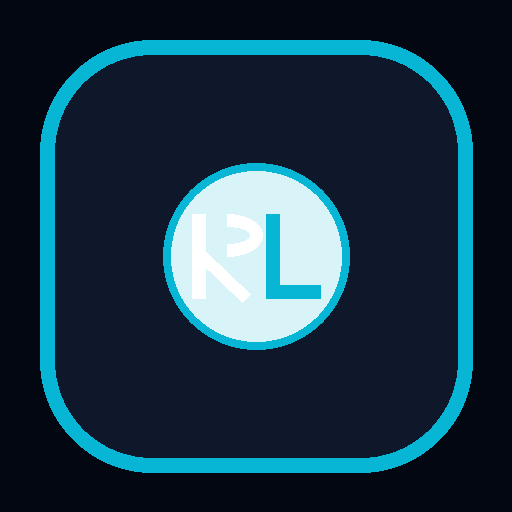
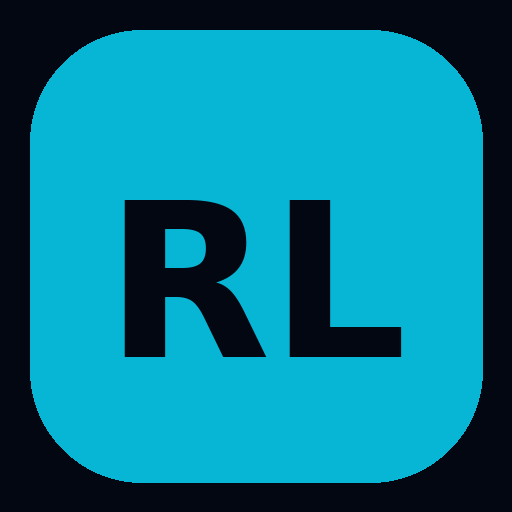
soliucion de instalacion RLPro v32.9

diff --git a/index.html b/index.html
@@ -8,6 +8,8 @@
     <meta name="theme-color" content="#030712">
     <meta name="apple-mobile-web-app-capable" content="yes">
     <meta name="apple-mobile-web-app-status-bar-style" content="black-translucent">
+    <link rel="apple-touch-icon" href="./icon-192.png">
+    <link rel="icon" type="image/png" href="./icon-192.png">
     <meta name="mobile-web-app-capable" content="yes">
     <link rel="manifest" href="./manifest.json">
 
@@ -106,7 +108,7 @@
     </div>
 
     <!-- TOP HEADER -->
-    <header class="bg-neutral-900/95 border-b border-neutral-800 px-3 py-2.5 flex items-center justify-between sticky top-0 z-40 shadow-xl shrink-0">
+    <header class="bg-neutral-900/95 border-b border-neutral-800 px-3 pt-[max(0.6rem,env(safe-area-inset-top))] pb-2.5 flex items-center justify-between sticky top-0 z-40 shadow-xl shrink-0">
         <div class="flex items-center space-x-2.5 cursor-pointer min-w-0 flex-1 pr-2" onclick="openDriverEditModal()" title="Editar Perfil">
             <div class="w-9 h-9 rounded-xl bg-gradient-to-tr from-cyan-500 to-blue-600 text-neutral-950 font-black flex items-center justify-center text-xs shadow-md border border-cyan-400/30 shrink-0">
                 <span id="driver-initials">CP</span>
@@ -142,7 +144,7 @@
     </header>
 
     <!-- MAIN APP VIEWCONTAINER -->
-    <main class="flex-1 overflow-y-auto w-full max-w-lg mx-auto pb-20 relative flex flex-col">
+    <main class="flex-1 overflow-y-auto w-full max-w-lg mx-auto pb-[calc(4.5rem+env(safe-area-inset-bottom))] relative flex flex-col">
 
         <!-- MAP VIEW -->
         <section id="view-map" class="flex-1 flex flex-col relative h-full w-full">
@@ -155,7 +157,7 @@
             </div>
 
             <!-- PANEL DE NAVEGACIÓN ESTILO WAZE / GOOGLE MAPS (FLOTANTE) -->
-            <div id="waze-nav-banner" class="absolute top-14 left-2.5 right-2.5 z-30 bg-neutral-900/95 border-2 border-cyan-500/70 rounded-2xl p-3 shadow-2xl backdrop-blur-md hidden flex items-center justify-between gap-2">
+            <div id="waze-nav-banner" class="absolute top-[3.6rem] left-2.5 right-2.5 z-30 bg-neutral-900/95 border-2 border-cyan-500/70 rounded-2xl p-2.5 shadow-2xl backdrop-blur-md hidden flex items-center justify-between gap-2">
                 <div class="flex items-center gap-3 min-w-0 flex-1">
                     <div class="w-10 h-10 rounded-xl bg-cyan-500 text-neutral-950 flex items-center justify-center font-black text-base shrink-0 shadow-lg">
                         <i data-lucide="navigation-2" class="w-6 h-6 animate-pulse"></i>
@@ -179,7 +181,7 @@
                 </div>
             </div>
 
-            <div class="absolute top-28 left-2.5 right-2.5 z-30 flex items-center justify-between gap-1 pointer-events-none" id="map-controls-subbar">
+            <div class="absolute top-[7.8rem] left-2.5 right-2.5 z-30 flex items-center justify-between gap-1.5 pointer-events-none transition-all duration-200" id="map-controls-subbar">
                 <div class="flex gap-1 bg-neutral-900/95 p-1 rounded-xl border border-neutral-700 text-[10px] shadow-2xl font-bold pointer-events-auto">
                     <button onclick="setMapTileStyle('standard')" id="style-standard" class="px-2 py-1 rounded-lg bg-cyan-500 text-neutral-950 transition">Clásico</button>
                     <button onclick="setMapTileStyle('dark')" id="style-dark" class="px-2 py-1 rounded-lg text-neutral-300 hover:text-white transition">Oscuro</button>
@@ -201,7 +203,7 @@
                 </div>
             </div>
 
-            <div class="absolute bottom-20 right-3 z-20 flex flex-col gap-2">
+            <div class="absolute bottom-[5.2rem] right-2.5 z-20 flex flex-col gap-2">
                 <button onclick="openOfflineDownloadModal()" class="w-11 h-11 bg-neutral-900/95 hover:bg-neutral-800 border border-emerald-500/40 rounded-2xl flex items-center justify-center text-emerald-400 shadow-2xl transition" title="Descargar Mapa Offline">
                     <i data-lucide="download-cloud" class="w-5 h-5"></i>
                 </button>
@@ -213,12 +215,12 @@
                 </button>
             </div>
 
-            <div id="gps-status-badge" class="absolute bottom-20 left-3 z-20 bg-neutral-900/90 border border-neutral-800 text-[10px] text-neutral-300 font-bold px-2.5 py-1.5 rounded-xl backdrop-blur-md shadow-xl flex items-center gap-1.5">
+            <div id="gps-status-badge" class="absolute bottom-[5.2rem] left-2.5 z-20 bg-neutral-900/90 border border-neutral-800 text-[10px] text-neutral-300 font-bold px-2.5 py-1.5 rounded-xl backdrop-blur-md shadow-xl flex items-center gap-1.5 max-w-[55vw] truncate">
                 <span id="gps-dot" class="w-2 h-2 rounded-full bg-amber-500 animate-pulse"></span>
                 <span id="gps-text">Buscando GPS...</span>
             </div>
 
-            <div class="absolute bottom-3 left-3 right-3 z-20 flex gap-2">
+            <div class="absolute bottom-2.5 left-2.5 right-2.5 z-20 flex gap-2">
                 <div class="relative flex-1">
                     <button onclick="toggleStopMenu()" class="w-full bg-gradient-to-r from-cyan-500 to-blue-600 text-neutral-950 font-black py-3.5 px-3 rounded-2xl shadow-2xl flex items-center justify-center gap-1.5 border border-cyan-400/40 text-xs transition active:scale-95">
                         <i data-lucide="plus-circle" class="w-4 h-4"></i> Añadir Parada <i data-lucide="chevron-up" class="w-3.5 h-3.5"></i>

diff --git a/sw.js b/sw.js
@@ -1,15 +1,44 @@
-const CACHE_NAME = 'routelogix-static-cache-v9';
-const CORE_ASSETS = ['./', './index.html', './style.css', './app.js', './manifest.json'];
+const CACHE_NAME = 'routelogix-offline-core-v10';
+const CORE_ASSETS = [
+  './',
+  './index.html',
+  './style.css',
+  './app.js',
+  './manifest.json',
+  './icon-192.png',
+  './icon-512.png',
+  'https://unpkg.com/leaflet@1.9.4/dist/leaflet.css',
+  'https://unpkg.com/leaflet@1.9.4/dist/leaflet.js',
+  'https://cdn.tailwindcss.com',
+  'https://unpkg.com/lucide@latest'
+];
 
 self.addEventListener('install', (event) => {
   event.waitUntil(
-    caches.open(CACHE_NAME).then((cache) => cache.addAll(CORE_ASSETS))
+    caches.open(CACHE_NAME).then(async (cache) => {
+      // Cachear archivos locales de forma obligatoria y CDNs de forma tolerante
+      const localAssets = ['./', './index.html', './style.css', './app.js', './manifest.json', './icon-192.png', './icon-512.png'];
+      await cache.addAll(localAssets);
+      const externalAssets = [
+        'https://unpkg.com/leaflet@1.9.4/dist/leaflet.css',
+        'https://unpkg.com/leaflet@1.9.4/dist/leaflet.js',
+        'https://cdn.tailwindcss.com',
+        'https://unpkg.com/lucide@latest'
+      ];
+      await Promise.allSettled(
+        externalAssets.map(url =>
+          fetch(url, { mode: 'cors' })
+            .then(res => { if (res.ok) cache.put(url, res); })
+            .catch(() => {})
+        )
+      );
+    })
   );
   self.skipWaiting();
 });
 
 self.addEventListener('activate', (event) => {
-  // Solo limpia cachés de archivos estáticos antiguos; nunca toca localStorage ni IndexedDB
+  // Solo limpia cachés estáticos antiguos; NUNCA toca localStorage ni IndexedDB
   event.waitUntil(
     caches.keys().then((keys) =>
       Promise.all(
@@ -26,28 +55,38 @@ self.addEventListener('fetch', (event) => {
   if (event.request.method !== 'GET') return;
   const url = event.request.url;
 
-  // Para mosaicos de mapas: Cache-First para soporte offline fluido
+  // 1. Mosaicos de mapas: Cache-First para 100% operación offline y ahorro de datos SIM
   if (url.includes('tile.openstreetmap.org') || url.includes('basemaps.cartocdn.com')) {
     event.respondWith(
       caches.match(event.request).then((cached) => {
-        return cached || fetch(event.request).then((res) => {
-          const clone = res.clone();
-          caches.open(CACHE_NAME).then((c) => c.put(event.request, clone));
+        if (cached) return cached;
+        return fetch(event.request).then((res) => {
+          if (res && res.status === 200) {
+            const clone = res.clone();
+            caches.open(CACHE_NAME).then((c) => c.put(event.request, clone));
+          }
           return res;
-        });
+        }).catch(() => new Response('', { status: 404 }));
       })
     );
     return;
   }
 
-  // Para archivos de la app (HTML/JS/CSS): Network-First para actualizar sin perder sesión
+  // 2. Recursos de la App (HTML, JS, CSS, Iconos y CDNs): Cache-First con actualización en segundo plano (Stale-While-Revalidate)
+  // Esto garantiza carga inmediata (<100ms) incluso con datos móviles lentos (3G/4G) o 100% sin señal
   event.respondWith(
-    fetch(event.request)
-      .then((res) => {
-        const clone = res.clone();
-        caches.open(CACHE_NAME).then((c) => c.put(event.request, clone));
-        return res;
-      })
-      .catch(() => caches.match(event.request, { ignoreSearch: true }))
+    caches.match(event.request, { ignoreSearch: true }).then((cachedResponse) => {
+      const fetchPromise = fetch(event.request)
+        .then((networkResponse) => {
+          if (networkResponse && (networkResponse.status === 200 || networkResponse.type === 'opaque')) {
+            const clone = networkResponse.clone();
+            caches.open(CACHE_NAME).then((cache) => cache.put(event.request, clone));
+          }
+          return networkResponse;
+        })
+        .catch(() => cachedResponse);
+
+      return cachedResponse || fetchPromise;
+    })
   );
 });

diff --git a/app.js b/app.js
@@ -466,6 +466,8 @@ function updateWazeNavigationBanner(currentLat, currentLng) {
     if (!banner) return;
     if (pendingStops.length === 0) {
         banner.classList.add('hidden');
+        const subbar = document.getElementById('map-controls-subbar');
+        if (subbar) subbar.style.top = '3.6rem';
         return;
     }
 
@@ -488,6 +490,8 @@ function updateWazeNavigationBanner(currentLat, currentLng) {
     document.getElementById('nav-step-eta').textContent = `~${etaMins} min`;
     document.getElementById('nav-next-stop-title').textContent = `Parada #${stopIndex}: ${nextStop.name}`;
     banner.classList.remove('hidden');
+    const subbar = document.getElementById('map-controls-subbar');
+    if (subbar) subbar.style.top = '7.8rem';
 }
 
 function abrirNavegacionExternaActual() {
@@ -1174,6 +1178,7 @@ function renderAllViews() {
     renderInventoryPOSView();
     renderFinancesView();
     renderMapMarkersAndRoute();
+    updateWazeNavigationBanner(lastKnownCoords[0], lastKnownCoords[1]);
     initIconsSafe();
 }
 
@@ -1345,7 +1350,34 @@ function createNewRoute() {
     renderAllViews();
 }
 function openOfflineDownloadModal() { document.getElementById('modal-offline-download').classList.remove('hidden'); }
-function startDownloadingRouteMapTiles() {
-    alert('✅ Mosaicos de la zona actual cacheados para operación offline.');
+async function startDownloadingRouteMapTiles() {
+    if (!map) return;
+    const center = map.getCenter();
+    const zooms = [14, 15, 16];
+    const urls = [];
+    zooms.forEach(z => {
+        const latRad = center.lat * Math.PI / 180;
+        const n = Math.pow(2, z);
+        const cx = Math.floor((center.lng + 180) / 360 * n);
+        const cy = Math.floor((1 - Math.log(Math.tan(latRad) + 1 / Math.cos(latRad)) / Math.PI) / 2 * n);
+        for (let dx = -2; dx <= 2; dx++) {
+            for (let dy = -2; dy <= 2; dy++) {
+                urls.push(`https://tile.openstreetmap.org/${z}/${cx + dx}/${cy + dy}.png`);
+            }
+        }
+    });
+    const countEl = document.getElementById('offline-tiles-count');
+    if (countEl) countEl.textContent = `Descargando ${urls.length} cuadrantes...`;
+    try {
+        const cache = await caches.open('routelogix-offline-core-v10');
+        let okCount = 0;
+        await Promise.allSettled(
+            urls.map(u => fetch(u).then(r => { if (r.ok) { okCount++; return cache.put(u, r); } }))
+        );
+        if (countEl) countEl.textContent = `${okCount} cuadrantes listos Offline`;
+        alert(`✅ ${okCount} bloques de mapa descargados. Ya puedes navegar 100% sin señal.`);
+    } catch (e) {
+        alert('⚠ Error al descargar mosaicos. Verifica tu conexión.');
+    }
     document.getElementById('modal-offline-download').classList.add('hidden');
 }

diff --git a/style.css b/style.css
@@ -1,4 +1,3 @@
-
 * {
   box-sizing: border-box;
   -webkit-tap-highlight-color: transparent;
@@ -10,12 +9,42 @@ html, body {
   padding: 0;
   overscroll-behavior-y: none;
   touch-action: manipulation;
+  background-color: #030712;
+  color: #f3f4f6;
+  overflow: hidden;
 }
 input, select, textarea, button {
-  font-size: 16px;
+  font-size: 16px !important; /* Evita el zoom automático molesto en iOS y Android */
 }
 @media (min-width: 640px) {
   input, select, textarea, button {
-    font-size: inherit;
+    font-size: 14px !important;
   }
+}
+
+/* Ajuste responsivo para barras flotantes en pantallas móviles estrechas */
+@media (max-width: 380px) {
+  #map-controls-subbar {
+    flex-wrap: wrap;
+    gap: 4px;
+  }
+  #waze-nav-banner {
+    padding: 8px 10px;
+  }
+}
+
+/* Scrollbars discretos en móvil */
+::-webkit-scrollbar {
+  width: 3px;
+  height: 3px;
+}
+::-webkit-scrollbar-thumb {
+  background: #374151;
+  border-radius: 999px;
+}
+
+/* Mosaico Offline sintético cuando no hay red ni tiles cacheados */
+.leaflet-container {
+  background: #0b1120 !important;
+  font-family: inherit !important;
 }
